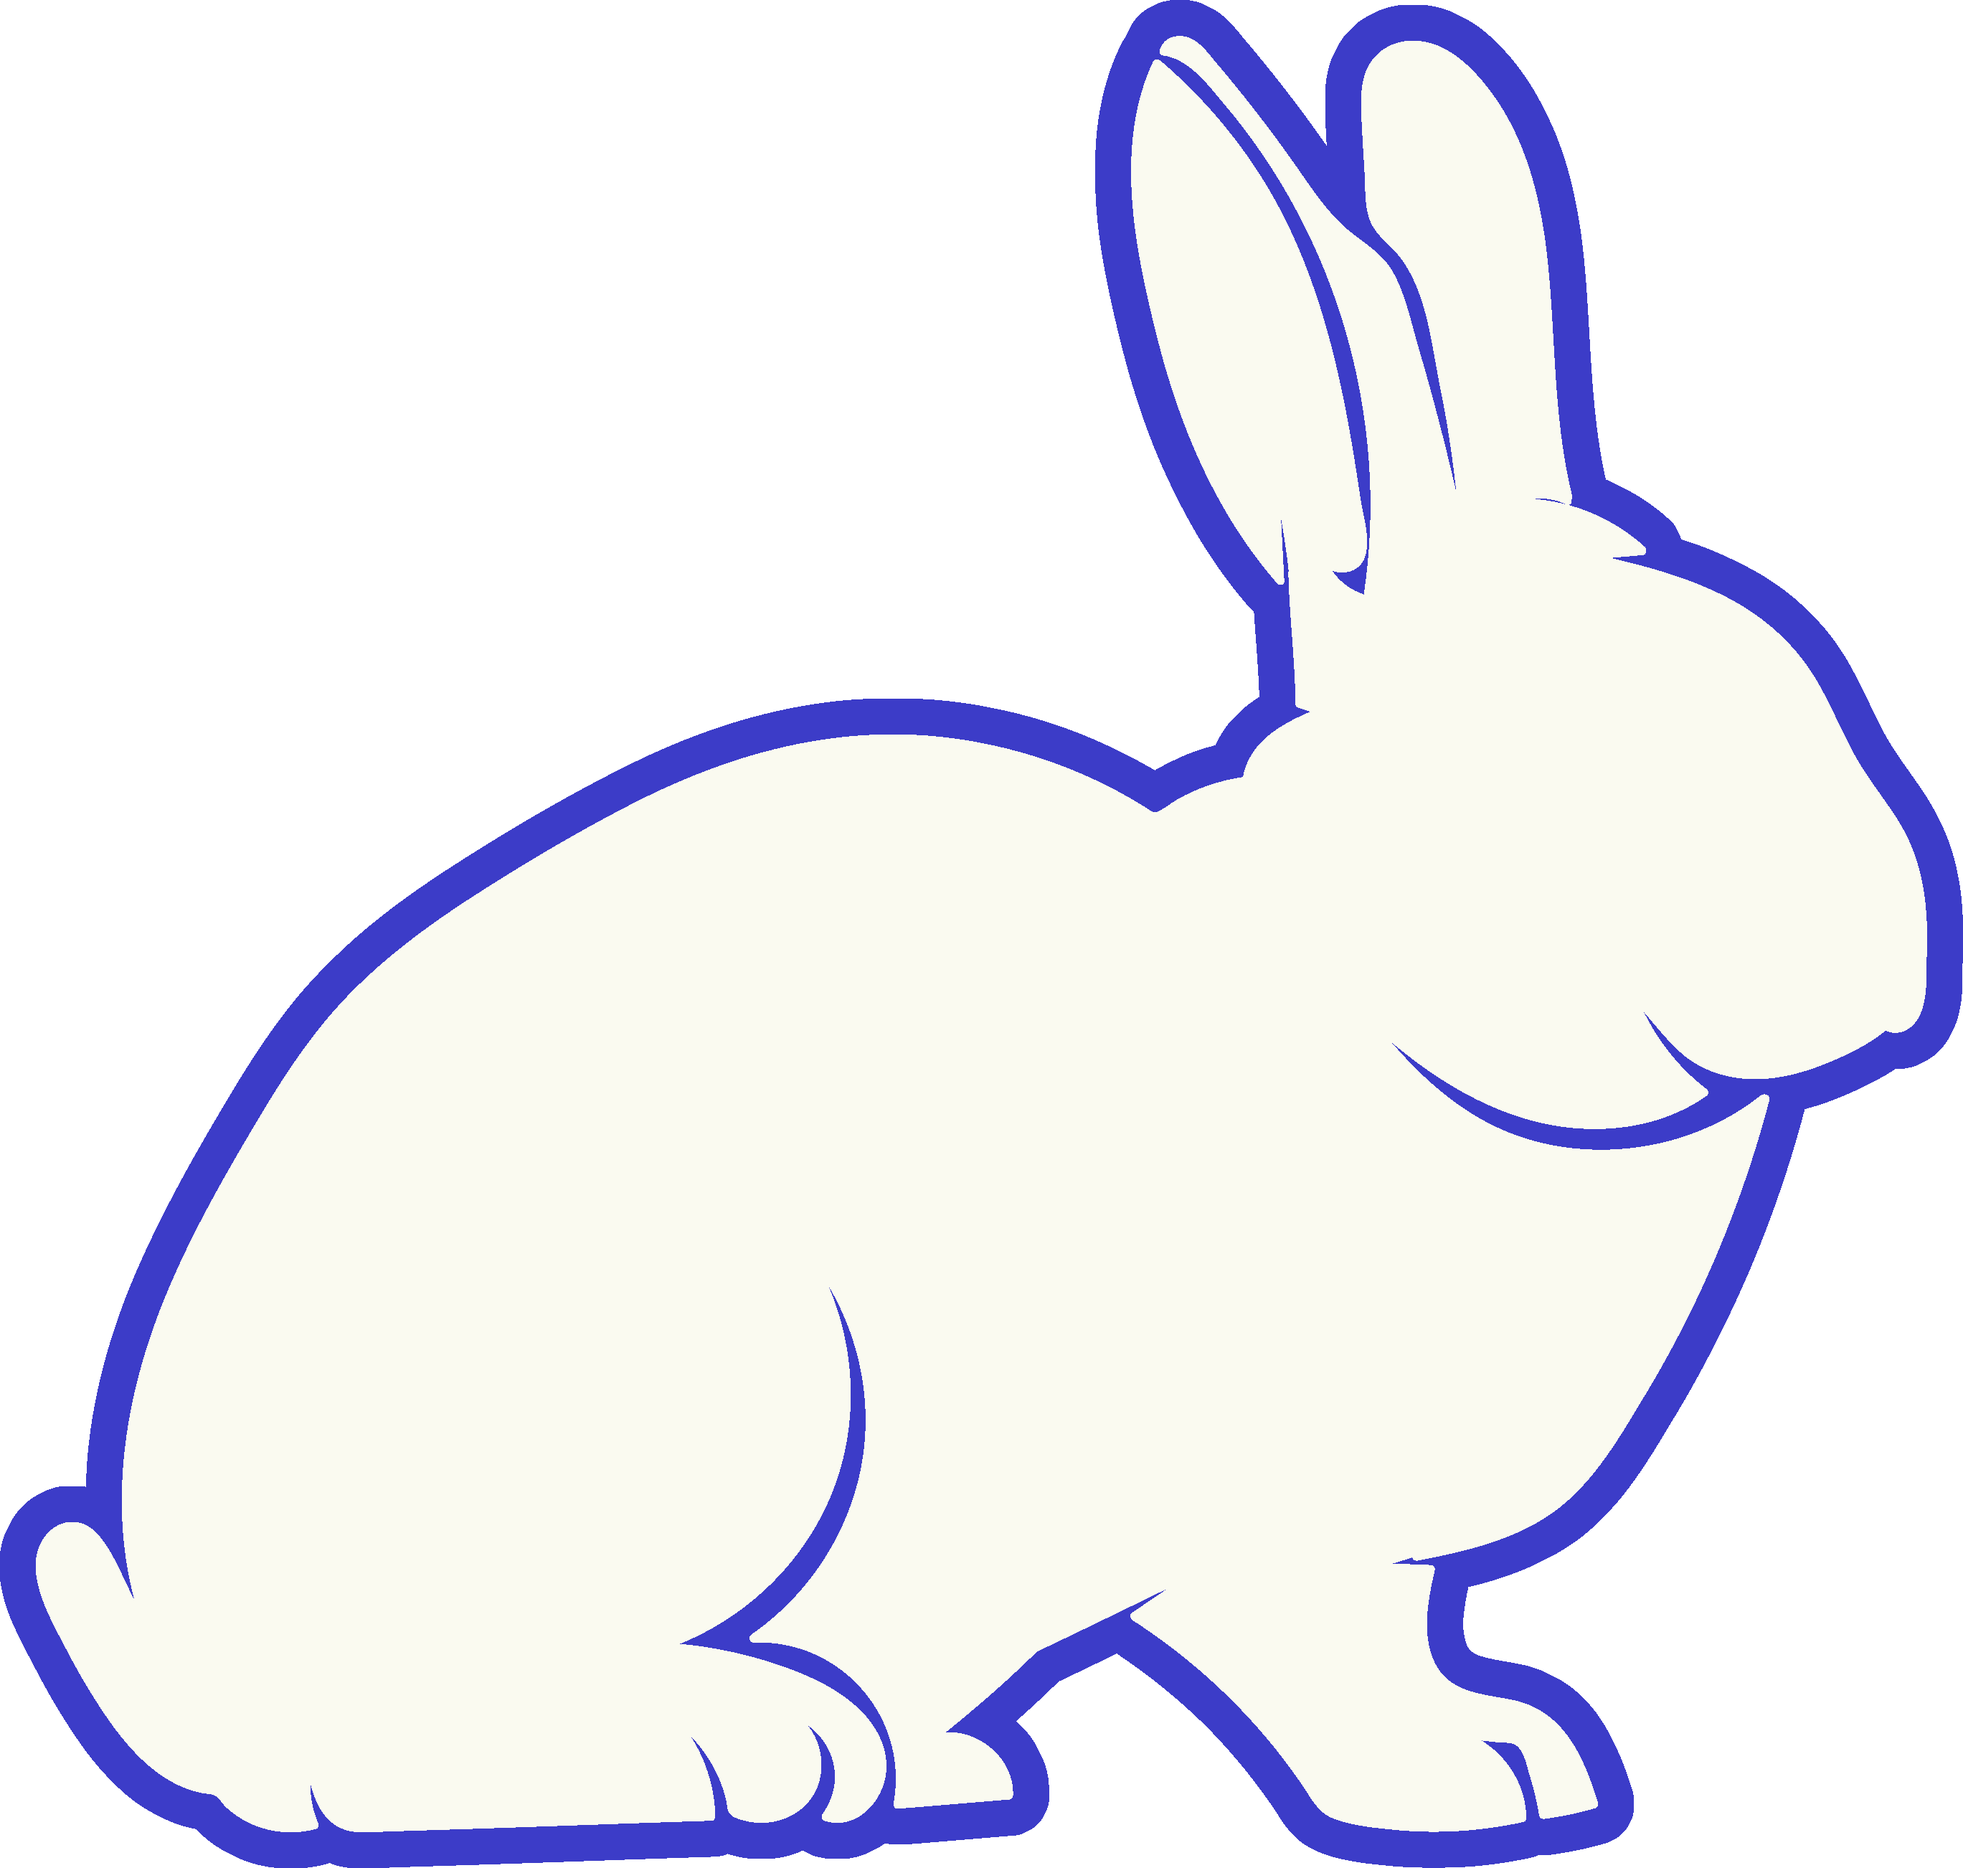
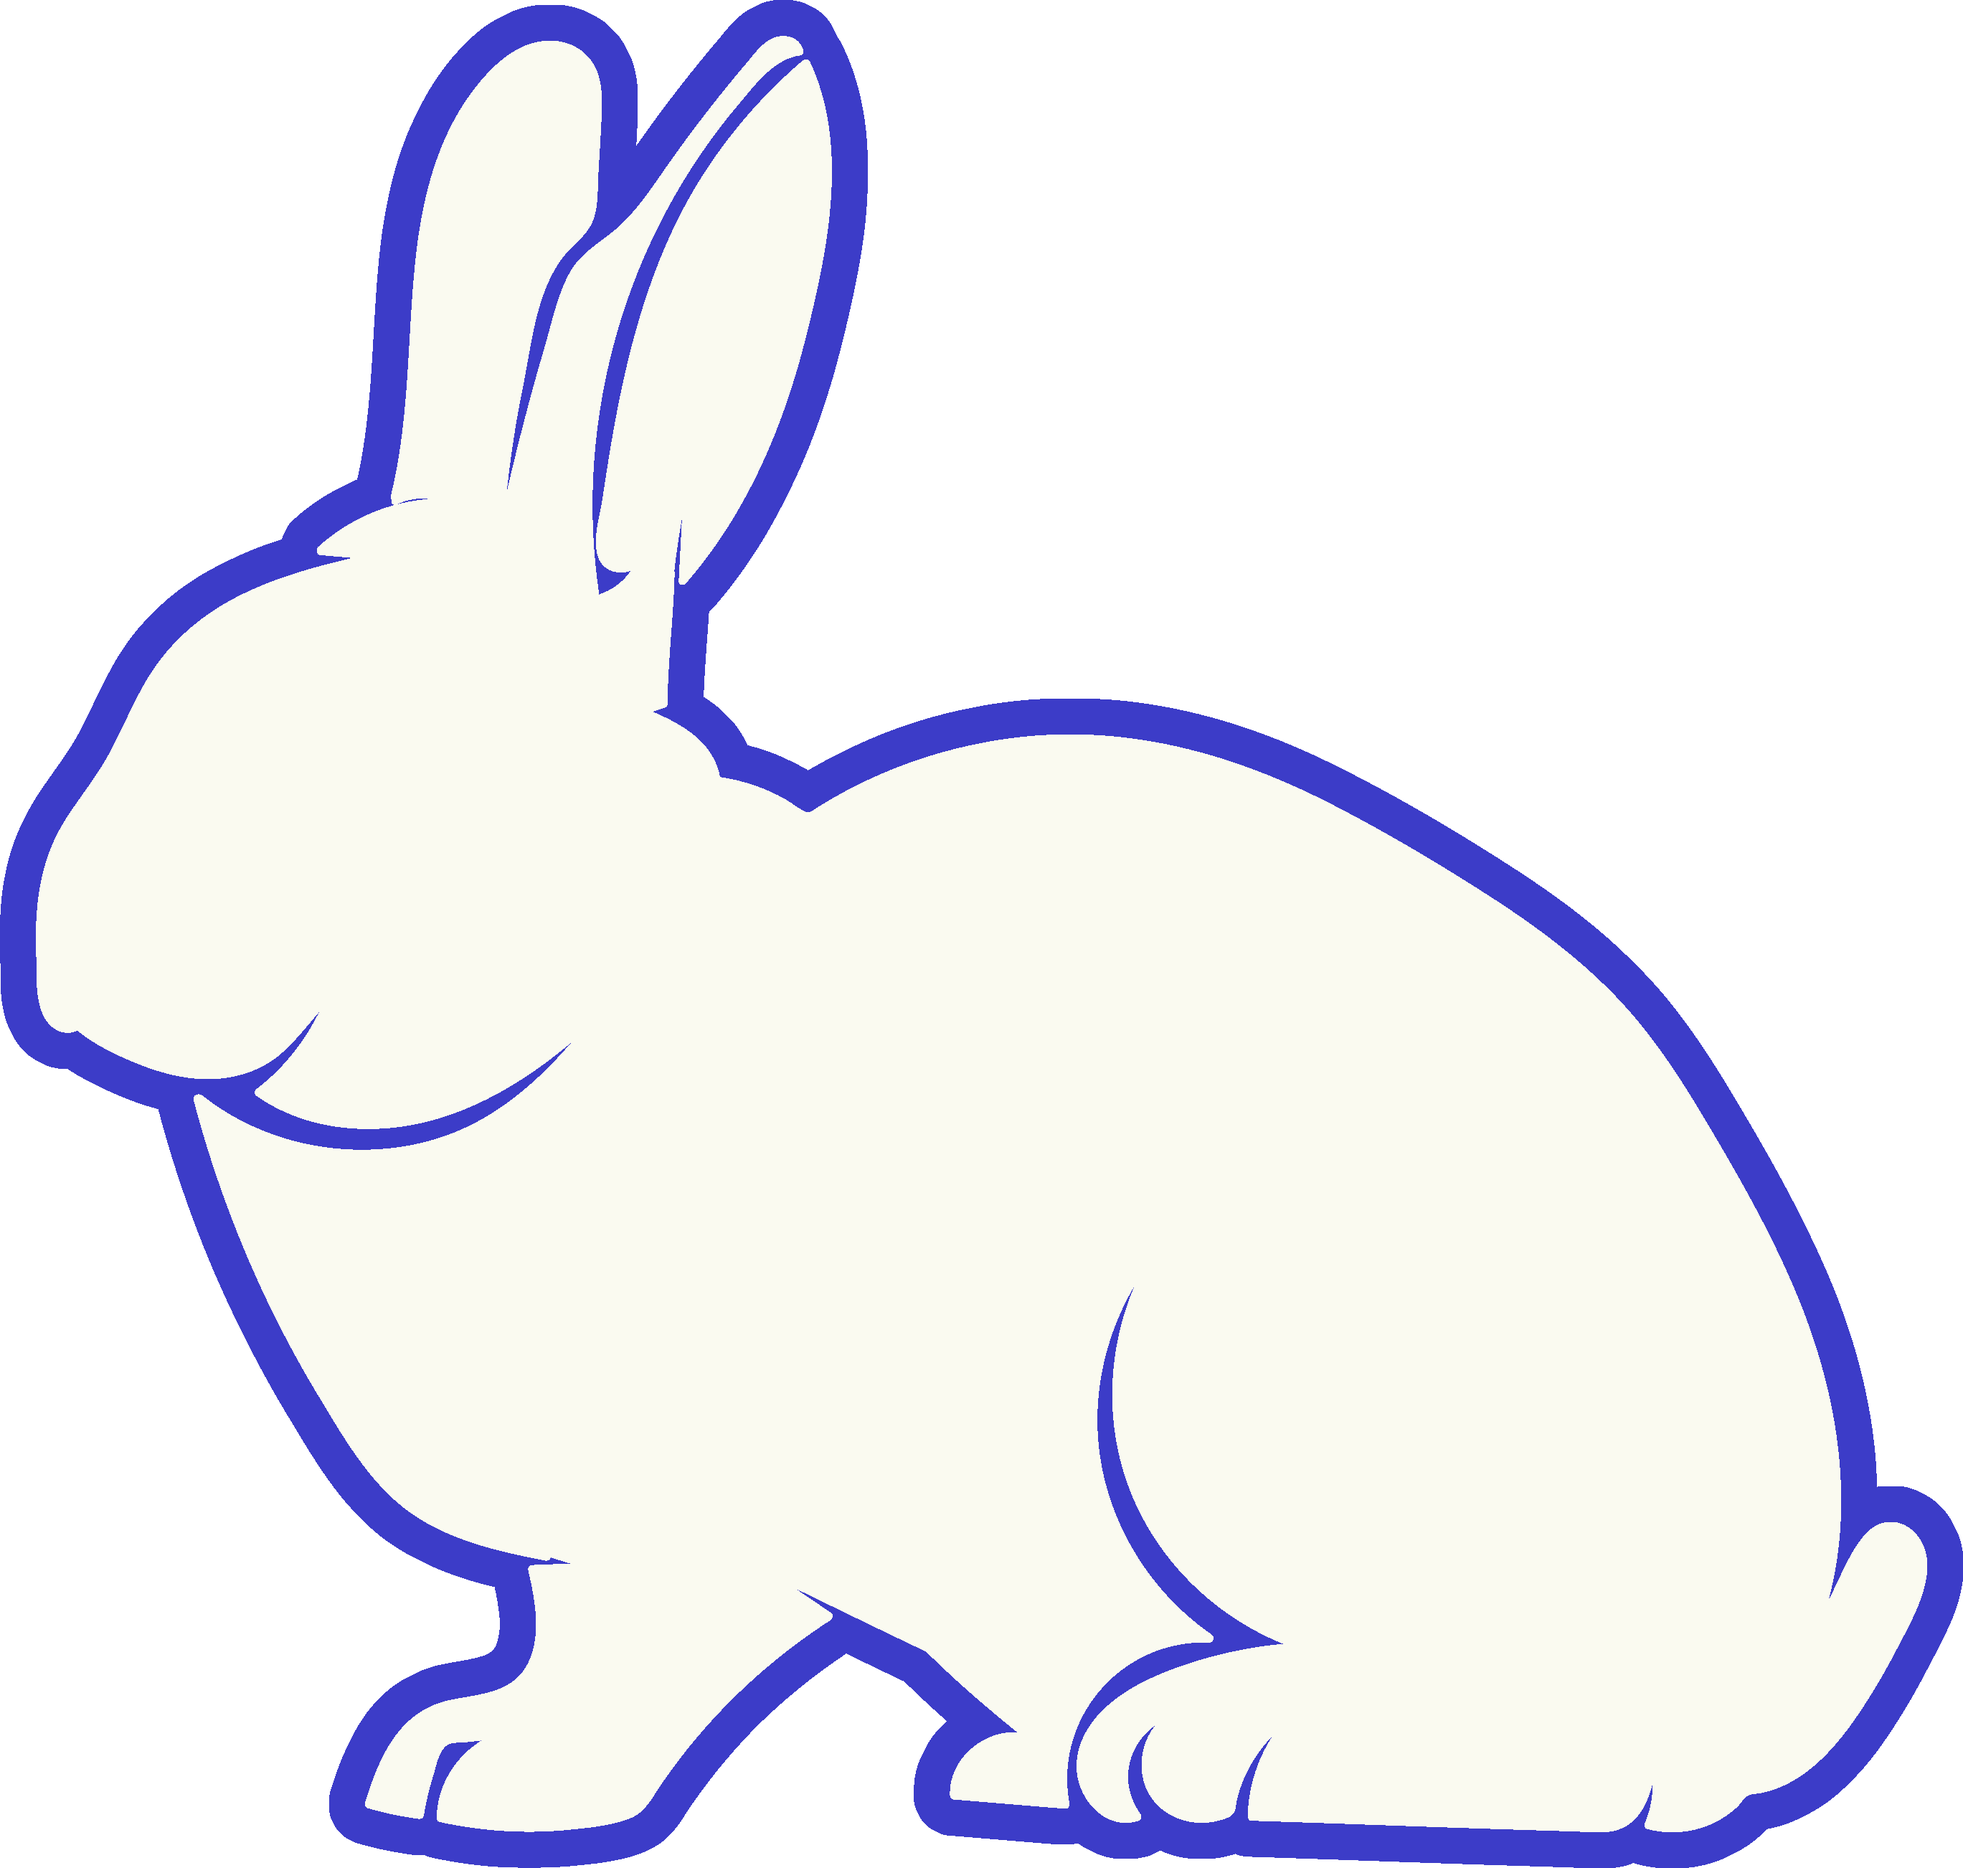
rabbit moving with pallette looks better

diff --git a/lny2023/whiterabbit.js b/lny2023/whiterabbit.js
@@ -75,11 +75,12 @@ function WhiteRabbit() {
         fill(this.black);
         ellipse(0, 0, w, h);
         fill(this.white);
-        circle(0.2 * w, -0.2 * h, 0.2 * h);
+        circle(0.22 * w, -0.2 * h, 0.2 * h);
         fill(this.red);
-        circle(0.3 * w, 0.1 * h, 0.18 * h);
-        fill(this.blue);
-        circle(0.15 * w, 0.25 * h, 0.13 * h);
+        circle(0.33 * w, 0.1 * h, 0.18 * h);
+        const rw = 0.16 * width;
+        const rh = rw * this.rabbit.height / this.rabbit.width;
+        image(this.rabbit, -0.71 * rw, -0.65 * rh, rw, rh);
         pop();
     }
 
@@ -124,8 +125,8 @@ function WhiteRabbit() {
         const slowT = ((frameCount / 2) % total) / total;
         const damping = utils.widePulse(0.3, 0.7, 0.2, slowT);
         const palletteLooseness = utils.widePulse(0.5, 0.6, 0.1, slowT);
-        const firstPallette = createVector(0.25, 0.4);
-        const secondPallette = createVector(0.75, 0.6);
+        const firstPallette = createVector(0.25, 0.54);
+        const secondPallette = createVector(0.75, 0.62);
         {
             const loc = p5.Vector.lerp(
                 firstPallette,
@@ -156,14 +157,8 @@ function WhiteRabbit() {
             );
         }
 
-        {
-            const rw = 0.16 * width;
-            const rh = rw * this.rabbit.height / this.rabbit.width;
-            let loc = firstPallette;
-            image(this.rabbit, width * loc.x - 0.75 * rw, height * loc.y - 0.5 * rh, rw, rh);
-            this.border(0.15, utils.smoothstep(0.45, 0.55, t));
-            blendMode(HARD_LIGHT);
-            image(this.overlay, 0, 0, width, height);
-        };
+        this.border(0.15, utils.smoothstep(0.45, 0.55, t));
+        blendMode(HARD_LIGHT);
+        image(this.overlay, 0, 0, width, height);
     }
 }
